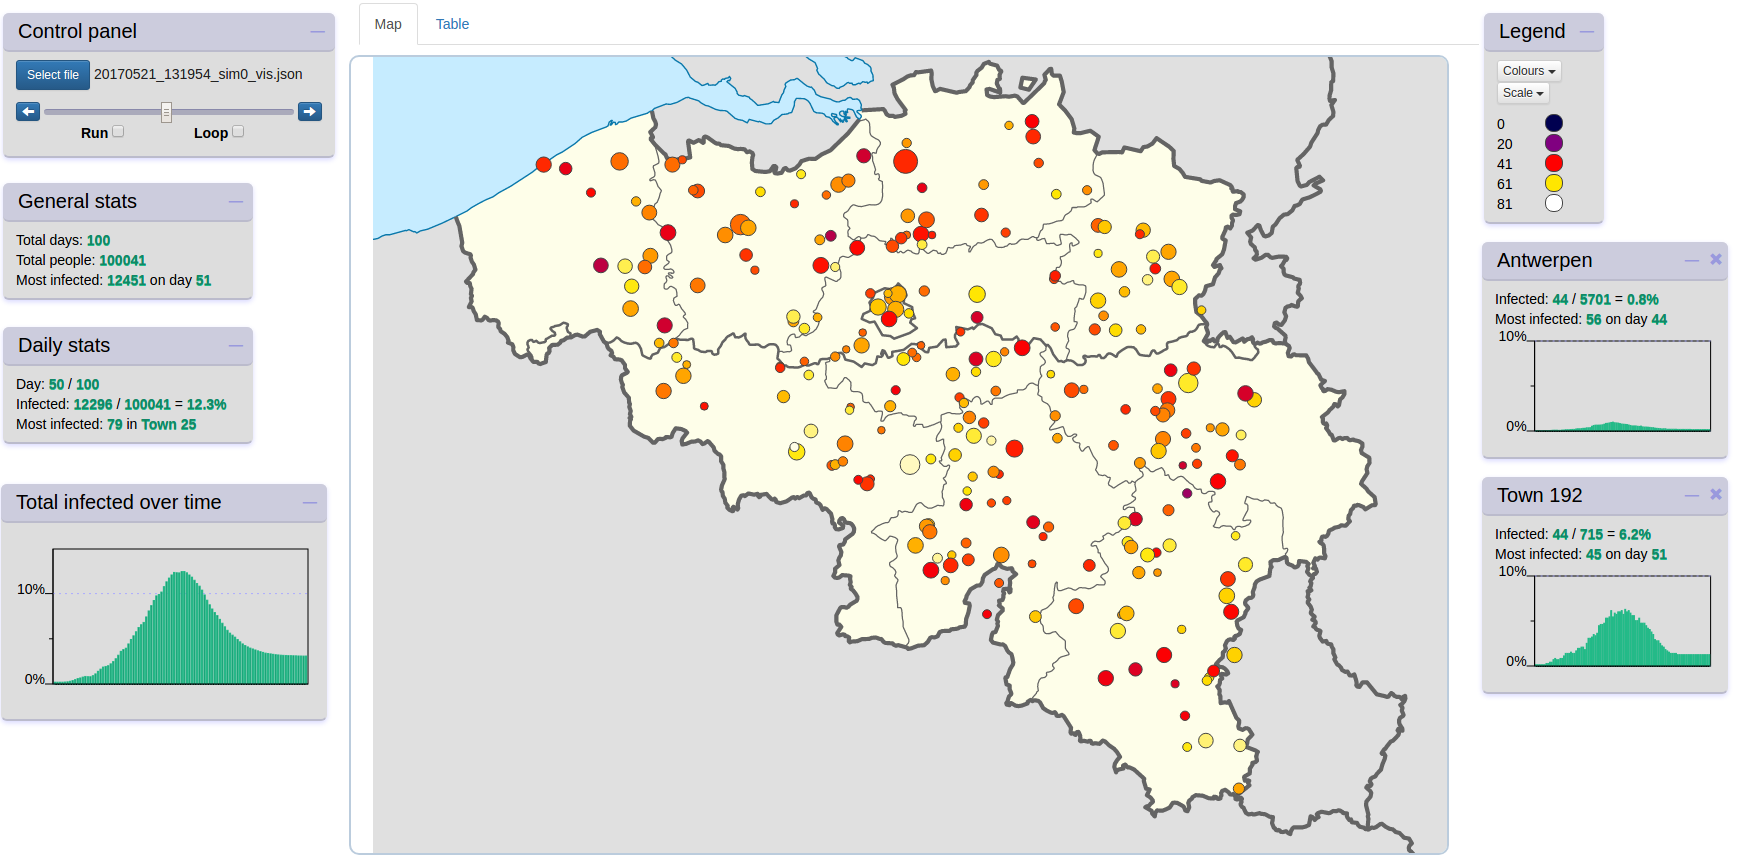
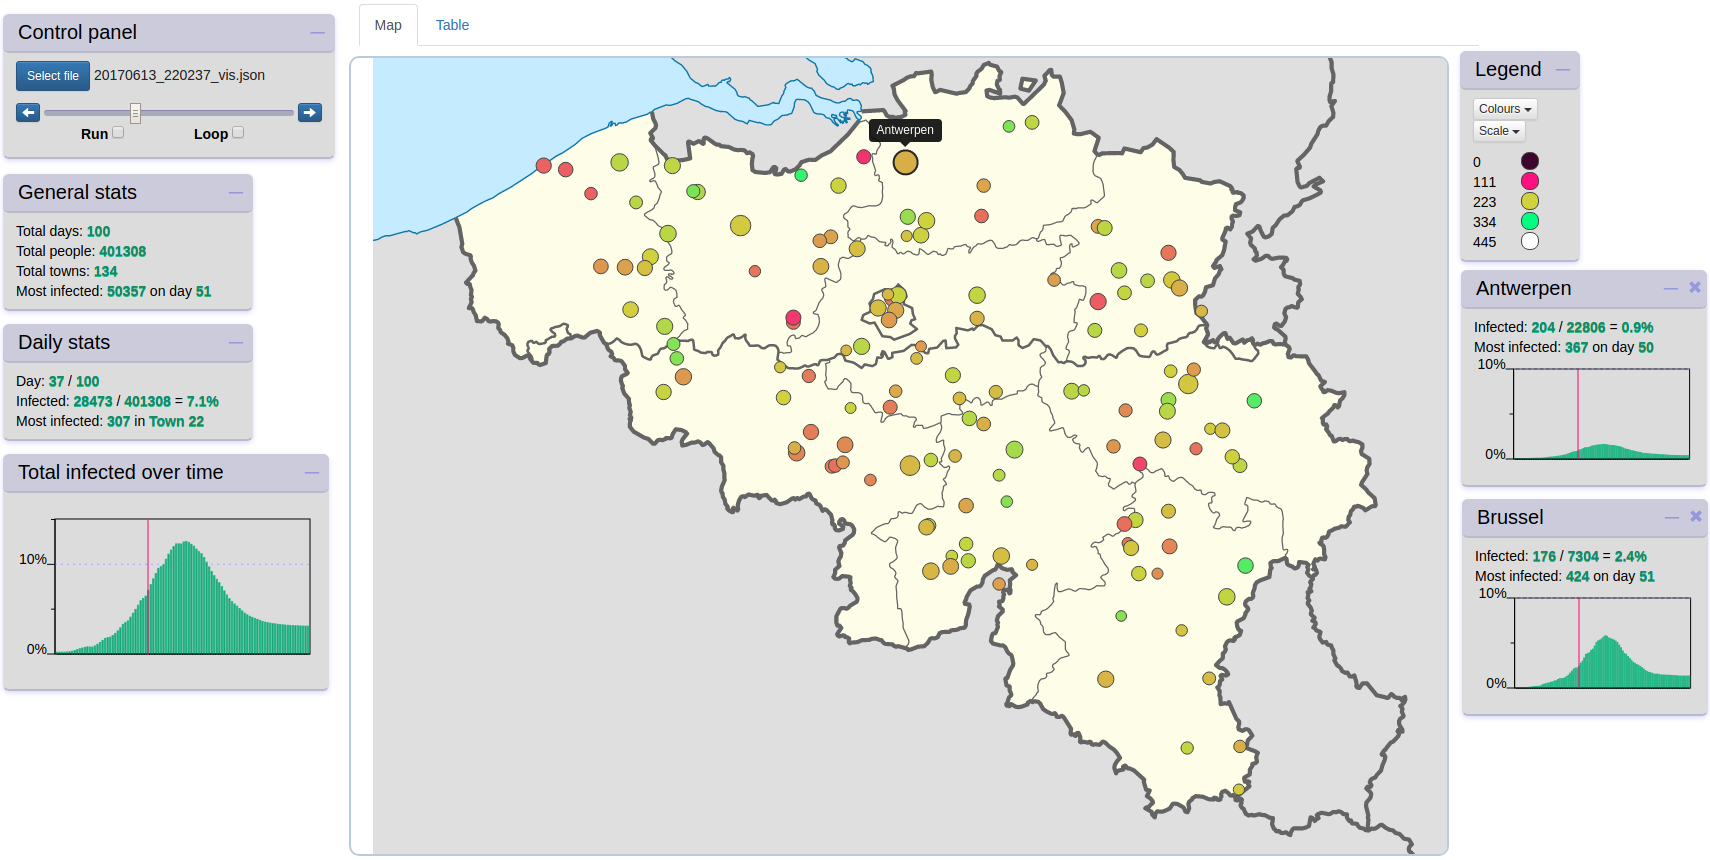
Update visualizer documentation

Changed region(s): [[0.0, 0.0, 1.0, 0.9977], [0.0, 0.6349, 0.031, 0.6953], [0.124, 0.393, 0.155, 0.4233]]

diff --git a/src/doc/latex_user_man/05-Visualizer.tex b/src/doc/latex_user_man/05-Visualizer.tex
@@ -4,25 +4,61 @@
 
 
 \section{Visualization files}
+\label{sec:files}
 
-Visualization files (\texttt{*\_vis.json}) are only produced by the simulator when working with a population generated from a geographical distribution, as otherwise there's no data to determine the locations of clusters on a map.
+Visualization files (\texttt{*\_vis.json}) are only able to be produced by the simulator when working with a population generated from a geographical distribution, as otherwise there's no data to determine the locations of clusters on a map. Generation of visualization files is also prevented with use of the \texttt{-V} or \texttt{{-}-no-vis} flag.
+
+During a simulation the simulator will automatically add new information to the visualization file after every 10 simulated days. In this state the file can already be used to visualize the intermediate simulation results. Furthermore, once loaded into the visualizer, any updates to the file will automatically cause the visualizer to retrieve the latest data and visualize it.
+
+\subsection{Format}
+
+The visualization file employs the following json format:
+
+A nameless Object containing two fields:
+\begin{compactitem}	
+	\item \texttt{towns}: An array of town Objects:
+	\begin{compactitem}	
+		\item \texttt{name}: The town's name.
+		\item \texttt{size}: The town's number of inhabitants.
+		\item \texttt{lat}: The town's latitude.
+		\item \texttt{long}: The town's longitude.
+	\end{compactitem}
+	\pagebreak
+	\item \texttt{days}: An array of Objects:\\
+	At \texttt{days[0]}: An Object:
+	\begin{compactitem}				
+		\item \texttt{\$townId} : The number of infected in \texttt{towns[\$townId]} on the first (0\textsuperscript{th}) day.\\
+		If no entry for a specific \texttt{\$townId} exists its value is assumed to be 0.
+	\end{compactitem}
+	At \texttt{days[n]} for $n > 0$: An Object:
+	\begin{compactitem}				
+		\item \texttt{\$townId} : The difference in number of infected in \texttt{towns[\$townId]} between the n\textsuperscript{th} day and the previous day.\\
+		If no entry for a specific \texttt{\$townId} exists its value is assumed to be 0.
+	\end{compactitem}
+	
+	\vspace{4pt}	
+	If a certain day contains no entries its place may instead hold an empty string.
+\end{compactitem}
+	
+	
 
 \section{The Visualizer}
 
-\begin{figure}[t]
+\begin{figure}[!b]
 	\centering
 	\includegraphics[width=\textwidth]{images/visualizer.png}
-	\caption{A visualization showing the map view and all panels.}
+	\caption{A visualization showing the map view and all types of panels.}
 \end{figure}
 
-The visualizer is a JavaScript-based browser application. It is included in the Stride distribution in \texttt{src/main/resources/html/main.html}, or it can be accessed from \url{https://flu-plus-plus.github.io/visualizer/main.html}.
+The visualizer is a JavaScript-based browser application. It is included in the Stride distribution in \texttt{src/main/resources/html/index.html}, or it can be accessed from \url{https://flu-plus-plus.github.io/visualizer/}.
 
 
 \subsection{Loading a file}
 
-To load a visualization file simply click the "Select file" button on the control panel. Selecting a file automatically analyses the data and starts the visualization.
+To load a visualization file simply click the "Select file" button on the control panel. Selecting a file automatically analyses the data and starts the visualization. This also sets the the visualizer to monitor changes made to the file (see \ref{sec:files}).
 
 \subsection{Controlling time}
+\label{sub:control}
 
 On the control panel, use the left and right buttons to step through the timeline one day at a time, or use the slider for greater control over the currently visualized day.
 
@@ -45,6 +81,7 @@ Each location is represented by a circle on the map with several attributes:
 \end{compactitem}
 
 \subsection{The legend panel}
+\label{sub:legend}
 
 The legend panel shows and controls the map's colour coding.
 
@@ -76,15 +113,16 @@ The columns are as follows:
 
 \subsection{The panels}
 
-Panels can be moved, minimized, and some can even be deleted.
+Panels can be moved, minimized, and some can be deleted.
 
-The control panel and legend panel have already been discussed.
+The control panel and legend panel have already been discussed (see \ref{sub:control} and \ref{sub:legend}).
 
 \subsubsection{General stats panel}
 This panel holds information that is constant for the entire file.
 \begin{compactitem}	
 	\item \textbf{Total days:} The total number of logged days.
 	\item \textbf{Total people:} The total number of inhabitants across all locations.
+	\item \textbf{Total towns:} The total number of different locations.
 	\item \textbf{Most infected:} The highest total number of infected of all time, and the day on which it happened. Clicking the day will automatically set the timeline to that day.
 \end{compactitem}
 
@@ -98,7 +136,7 @@ This panel holds information that changes between days.
 \end{compactitem}
 
 \subsubsection{Total infected over time panel}
-This panel shows a graph representing the combined percentage of infected over the entire logged length of time.
+This panel shows a graph representing the total percentage of infected over time. The red line highlights the currently visualized day.
 
 \subsubsection{Location specific panels}
 These panels show data specific to a given location.
